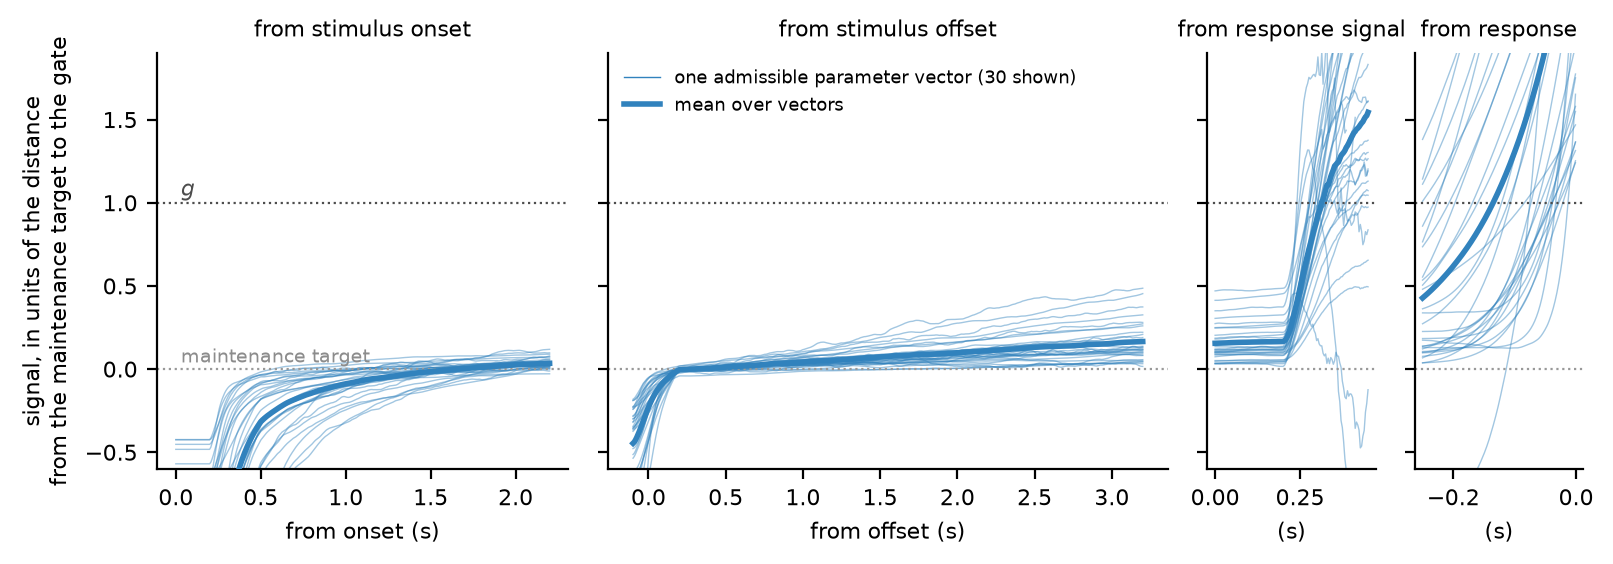
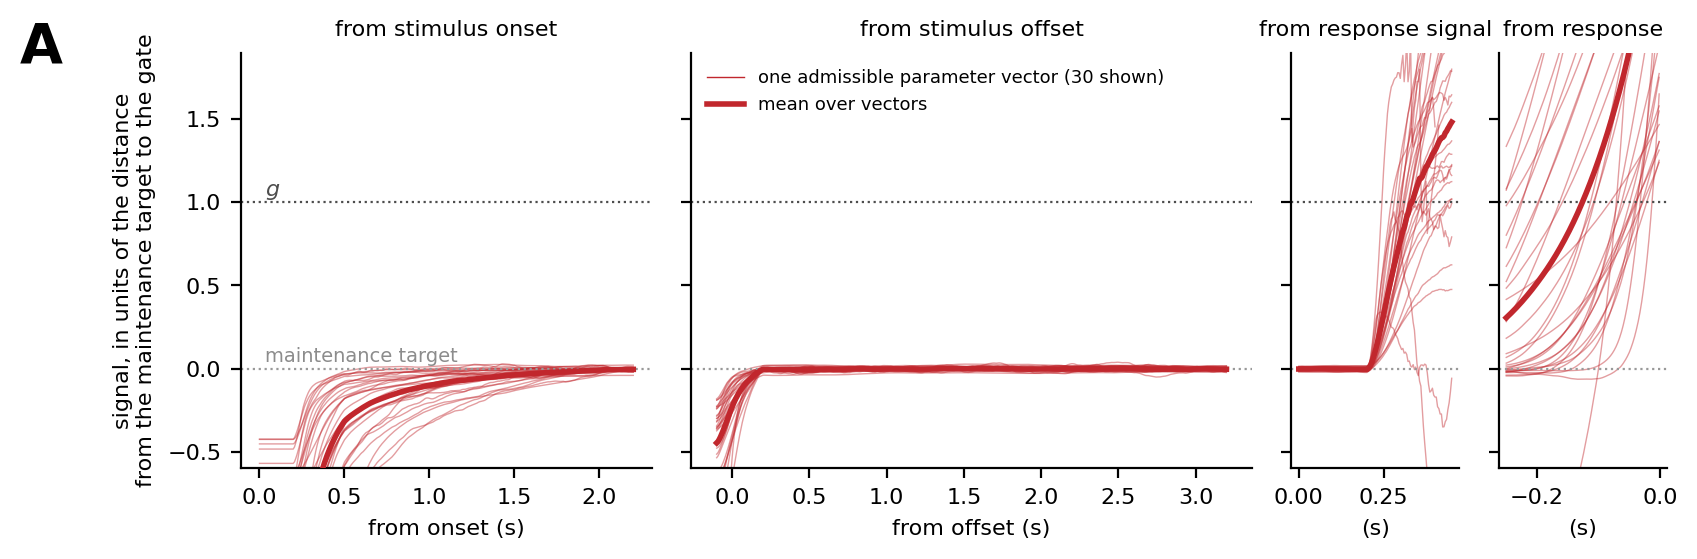
Fig. 1: Model 1 shown first (panel A), Model 2 second (panel B), with panel letters
- scripts/figures.py: fig_trajectories takes a panel letter; fig01.png is now Model 1
  (A) and fig02.png Model 2 (B).
- figures/fig01.png, fig02.png regenerated.
- delay.tex: Fig. 1 caption uses A and B.

Claude-Session: https://claude.ai/code/session_01RY8xm1TW7BgWjo5wS6uJXh

diff --git a/manuscript/latex/delay.tex b/manuscript/latex/delay.tex
@@ -512,7 +512,7 @@ In conclusion, delayed decision reports are not generated by storing an abstract
 
 \begin{center}\includegraphics[width=\linewidth]{figures/fig02.png}\end{center}
 
-\captionof{figure}{\textbf{Simulated dynamics under the two candidate models.} The signal reaching the gate, time-locked to the four trial events (stimulus onset, stimulus offset, RS, response); each trial is censored at its own response. Each thin line is the mean over trials at one admissible parameter vector, and the thick line the mean over vectors; thirty vectors, admissible in both models, are shown, the same ones in both panels, so that the two panels differ in $\beta$ and in nothing else. The vertical axis is in units of each vector's own distance from the maintenance target to the gate, so that vectors with different amplitudes can be superimposed: 0 is the maintenance target and the dotted line at 1 is the gate $g$. Top: Model 2 (maintained evidence-dependent state plus temporal preparation). Bottom: Model 1 (maintained evidence-dependent state only), the same vectors with $\beta=0$. The two models differ from stimulus offset onward: during the delay, Model 2 climbs toward the gate as the RS approaches, whereas Model 1 does not move (Corollary~\ref{cor:flat}). Compare Fig.~\ref{fig:design}B, one simulated trial.}\label{fig:dynamics}
+\captionof{figure}{\textbf{Simulated dynamics under the two candidate models.} The signal reaching the gate, time-locked to the four trial events (stimulus onset, stimulus offset, RS, response); each trial is censored at its own response. Each thin line is the mean over trials at one admissible parameter vector, and the thick line the mean over vectors; thirty vectors, admissible in both models, are shown, the same ones in both panels, so that the two panels differ in $\beta$ and in nothing else. The vertical axis is in units of each vector's own distance from the maintenance target to the gate, so that vectors with different amplitudes can be superimposed: 0 is the maintenance target and the dotted line at 1 is the gate $g$. A, Model 1 (maintained evidence-dependent state only), the same vectors with $\beta=0$. B, Model 2 (maintained evidence-dependent state plus temporal preparation). The two models differ from stimulus offset onward: during the delay, Model 2 climbs toward the gate as the RS approaches, whereas Model 1 does not move (Corollary~\ref{cor:flat}). Compare Fig.~\ref{fig:design}B, one simulated trial.}\label{fig:dynamics}
 
 \begin{center}\includegraphics[width=\linewidth]{figures/fig03.png}\end{center}
 

diff --git a/scripts/figures.py b/scripts/figures.py
@@ -1,7 +1,8 @@
 """
 figures.py -- the figures that show simulated dynamics: manuscript Figure 1 (the mean
 signal reaching the gate under each model, over thirty parameter vectors admissible in both
-models; ../manuscript/latex/figures/fig01.png and fig02.png) and Figure 2B (one simulated
+models; ../manuscript/latex/figures/fig01.png, panel A, Model 1, and fig02.png, panel B,
+Model 2) and Figure 2B (one simulated
 trial at the vector chosen by representative.py; fig04.png).
 
 Run representative.py first.  Usage: python3 figures.py
@@ -36,7 +37,7 @@ def cell_sty(k):
 
 # ---------------------------------------------------------------- trajectories
 def fig_trajectories(model=2, ndraw=30, n=300, fname='plots/fig_traj.pdf', png=None,
-                     dump='results/sweep_screened.jsonl'):
+                     dump='results/sweep_screened.jsonl', letter=None):
     """Manuscript Figure 1: the signal reaching the gate, time-locked to the four trial
     events. Each thin line is the mean over trials of one admissible parameter vector; the
     thick line is the mean over vectors. The vertical axis is in units of each vector's own
@@ -103,6 +104,8 @@ def fig_trajectories(model=2, ndraw=30, n=300, fname='plots/fig_traj.pdf', png=N
                  fontsize=6.5, frameon=False, loc='upper left')
     ax[0].set_xlabel('from onset (s)'); ax[1].set_xlabel('from offset (s)')
     ax[2].set_xlabel('(s)'); ax[3].set_xlabel('(s)')
+    if letter:
+        fig.text(0.005, 0.94, letter, fontsize=20, weight='bold', va='top')
     fig.savefig(fname, bbox_inches='tight')
     if png:
         fig.savefig(png, dpi=200, bbox_inches='tight')
@@ -149,8 +152,8 @@ if __name__ == '__main__':
     R = json.load(open('results/representative.json'))
     P2 = dict(R['params'], alpha=R['alpha'])
     FIG = '../manuscript/latex/figures/'
-    fig_trajectories(2, fname='plots/fig_traj_m2.pdf', png=FIG + 'fig01.png')
-    fig_trajectories(1, fname='plots/fig_traj_m1.pdf', png=FIG + 'fig02.png')
+    fig_trajectories(1, fname='plots/fig_traj_m1.pdf', png=FIG + 'fig01.png', letter='A')
+    fig_trajectories(2, fname='plots/fig_traj_m2.pdf', png=FIG + 'fig02.png', letter='B')
     fig_single(P2, png=FIG + 'fig04.png')
     print(f"figures written at the representative draw {R['draw']} "
           f"(beta = {R['beta']:.4f}, the Model 2 admissible median)")
